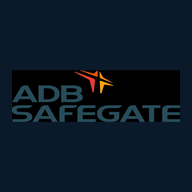
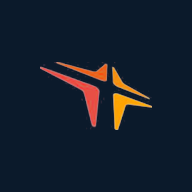
Use the real company wordmark throughout
The repo already carried the genuine logo scan (the JPEG the PWA icons
were cropped from) but the app rendered a hand-drawn SVG approximation.

- scripts/make-logo-assets.py un-mattes the scan from its black
  background, knocks the teal wordmark out to white for dark surfaces
  (the star keeps its brand colors), and isolates the star mark.
- Logo component now renders logo-dark.png (real letterforms) instead
  of the Arial Black stand-in; call sites widened for the 3.27:1
  aspect (login 260, boot/reset 220, sidebar 150).
- favicon and PWA icons regenerated: the star mark alone, centered on
  the app navy within the maskable safe zone, replacing the black-box
  wordmark crop that showed as a letterbox on home screens.
- logo-dark.png added to the build's static asset list.

Claude-Session: https://claude.ai/code/session_01MF24TRRu9XaPojDKhzv9xS

Changed region(s): [[0.0625, 0.3125, 0.9375, 0.6875]]

diff --git a/src/uiPrimitives.jsx b/src/uiPrimitives.jsx
@@ -3,14 +3,20 @@ import { GlyphIcon } from "./icons.jsx";
 
 const { useId, useRef, useEffect } = React;
 
-export const Logo = ({ size=120, w=true }) => (
-  <svg viewBox="0 0 280 210" width={size} height={size*210/280} xmlns="http://www.w3.org/2000/svg">
-    <g transform="translate(140, 8)" fill="#E8702A">
-      <path d="M0,0 L5,10 L5,28 L40,46 L40,52 L5,46 L5,64 L16,74 L16,78 L0,73 L-16,78 L-16,74 L-5,64 L-5,46 L-40,52 L-40,46 L-5,28 L-5,10 Z"/>
-    </g>
-    <text x="140" y="140" textAnchor="middle" fontFamily="'Arial Black',Impact,sans-serif" fontSize="42" fontWeight="900" fill={w?"#fff":"#1b4d62"} letterSpacing="3">ADB</text>
-    <text x="140" y="190" textAnchor="middle" fontFamily="'Arial Black',Impact,sans-serif" fontSize="42" fontWeight="900" fill={w?"#fff":"#1b4d62"} letterSpacing="3">SAFEGATE</text>
-  </svg>
+// The real company wordmark. logo-dark.png is derived from the source logo
+// scan at the repo root (see scripts/make-logo-assets.py): background removed
+// and the wordmark knocked out to white for dark surfaces; the star keeps its
+// brand colors. `size` is the rendered width; the file is 820x251. The old
+// `w` prop is accepted for compatibility but there is only a dark-surface
+// variant, since the app has no light surfaces.
+export const Logo = ({ size=120 }) => (
+  <img
+    src="logo-dark.png"
+    alt="ADB SAFEGATE"
+    width={size}
+    height={Math.round(size * 251 / 820)}
+    style={{ display:"block" }}
+  />
 );
 
 // fontSize is 16, not 13, on purpose. iOS Safari auto-zooms the viewport when

diff --git a/app.jsx b/app.jsx
@@ -1203,7 +1203,7 @@ function App() {
       minHeight:"100vh", display:"flex", flexDirection:"column", alignItems:"center",
       justifyContent:"center", background:theme.bg, gap:18
     }}>
-      <Logo size={150} w={true} />
+      <Logo size={220} />
       <p role="status" aria-live="polite" style={{ color:theme.ts, fontSize:13 }}>
         Loading your portal…
       </p>
@@ -1219,7 +1219,7 @@ function App() {
       minHeight:"100vh", display:"flex", flexDirection:"column", alignItems:"center",
       justifyContent:"center", background:theme.bg, padding:24, textAlign:"center"
     }}>
-      <Logo size={150} w={true} />
+      <Logo size={220} />
       <div role="alert" style={{
         maxWidth:440, marginTop:24, background:"rgba(239,68,68,0.08)",
         border:"1px solid rgba(239,68,68,0.28)", borderRadius:14, padding:"16px 18px",
@@ -1311,7 +1311,7 @@ function App() {
           justifyContent: sidebarOpen ? "flex-start" : "center"
         }}>
           {sidebarOpen
-            ? <Logo size={110} w={true} />
+            ? <Logo size={150} />
             : <div style={{
                 width:30, height:30, borderRadius:8, background:theme.ga,
                 display:"flex", alignItems:"center", justifyContent:"center",

diff --git a/src/LoginPage.jsx b/src/LoginPage.jsx
@@ -125,7 +125,7 @@ export function LoginPage({
       <div style={{ width:"100%", maxWidth:400, padding:20, position:"relative", zIndex:1 }}>
         <div style={{ textAlign:"center", marginBottom:32 }}>
           <div style={{ margin:"0 auto 16px", display:"flex", justifyContent:"center" }}>
-            <Logo size={180} w={true} />
+            <Logo size={260} />
           </div>
           <p style={{ color:theme.or, fontSize:12, fontWeight:700, letterSpacing:2 }}>ABU DHABI MAINTENANCE TEAM</p>
         </div>

diff --git a/src/components/ResetPassword.jsx b/src/components/ResetPassword.jsx
@@ -53,7 +53,7 @@ export function ResetPassword({ email, onSubmit, onCancel }) {
     }}>
       <div style={{ width:"100%", maxWidth:420, padding:20 }}>
         <div style={{ display:"flex", justifyContent:"center", marginBottom:24 }}>
-          <Logo size={150} w={true} />
+          <Logo size={220} />
         </div>
         <div style={{
           background:theme.cs, borderRadius:16, padding:28, border:`1px solid ${theme.bd}`

diff --git a/build.js b/build.js
@@ -20,6 +20,7 @@ const STATIC_ASSETS = [
   "icon-512.png",
   "apple-touch-icon.png",
   "favicon.png",
+  "logo-dark.png",
 ];
 
 // Demo mode ships the demo login accounts AND the seeded team roster in the

diff --git a/scripts/make-logo-assets.py b/scripts/make-logo-assets.py
@@ -1,0 +1,71 @@
+# Regenerates the logo/icon assets from the source wordmark scan at the repo
+# root (PHOTO-2026-04-27-21-41-51.jpg.jpeg, the company logo on a black
+# background). Run from the repo root:
+#
+#   python3 scripts/make-logo-assets.py
+#
+# Outputs:
+#   logo-dark.png        wordmark knocked out to white, star in brand colors,
+#                        transparent background (used by the Logo component)
+#   favicon.png          star mark alone, transparent, 64x64
+#   icon-192/512.png     star mark centered on the app navy; sized for the
+#                        maskable safe zone (manifest declares "any maskable")
+#   apple-touch-icon.png same, 180x180, opaque
+#
+# Requires: pillow, numpy.
+
+from PIL import Image
+import numpy as np
+
+SRC = "PHOTO-2026-04-27-21-41-51.jpg.jpeg"
+NAVY = (11, 26, 43, 255)  # theme.bg
+
+src = Image.open(SRC).convert("RGB")
+a = np.asarray(src).astype(int)
+r, g, b = a[..., 0], a[..., 1], a[..., 2]
+
+# The scan is the logo composited on black, so alpha ~= max(r,g,b);
+# un-premultiply to recover each pixel's true color.
+alpha = a.max(axis=2)
+scale = np.maximum(alpha, 1)
+ur = np.clip(r * 255 // scale, 0, 255)
+ug = np.clip(g * 255 // scale, 0, 255)
+ub = np.clip(b * 255 // scale, 0, 255)
+
+# Warm pixels are the star; everything else is the teal wordmark.
+warm = (alpha > 12) & (ur > ub + 10) & (ur > 100)
+
+def trim(im, th=8):
+    bbox = im.split()[3].point(lambda v: 255 if v > th else 0).getbbox()
+    return im.crop(bbox)
+
+# logo-dark: star keeps its colors, wordmark goes white, background drops out.
+rgba = np.zeros((*alpha.shape, 4), dtype=np.uint8)
+rgba[..., 0] = np.where(warm, ur, 255)
+rgba[..., 1] = np.where(warm, ug, 255)
+rgba[..., 2] = np.where(warm, ub, 255)
+rgba[..., 3] = np.where(alpha > 12, alpha, 0)
+trim(Image.fromarray(rgba)).save("logo-dark.png", optimize=True)
+
+# Star mark alone. The bbox comes from columns/rows with several strong warm
+# pixels, so stray JPEG chroma speckles elsewhere cannot inflate it.
+strong = warm & (alpha > 90)
+xs = np.where(strong.sum(axis=0) >= 3)[0]
+ys = np.where(strong.sum(axis=1) >= 3)[0]
+srgba = np.zeros((*alpha.shape, 4), dtype=np.uint8)
+srgba[..., 0], srgba[..., 1], srgba[..., 2] = ur, ug, ub
+srgba[..., 3] = np.where(warm, alpha, 0)
+star = Image.fromarray(srgba).crop((int(xs[0]), int(ys[0]), int(xs[-1]) + 1, int(ys[-1]) + 1))
+
+def square(im, canvas, content, bg=None):
+    im2 = im.copy()
+    im2.thumbnail((content, content), Image.LANCZOS)
+    base = Image.new("RGBA", (canvas, canvas), bg or (0, 0, 0, 0))
+    base.paste(im2, ((canvas - im2.width) // 2, (canvas - im2.height) // 2), im2)
+    return base
+
+square(star, 64, 52).save("favicon.png", optimize=True)
+square(star, 512, 300, NAVY).save("icon-512.png", optimize=True)
+square(star, 192, 112, NAVY).save("icon-192.png", optimize=True)
+square(star, 180, 108, NAVY).convert("RGB").save("apple-touch-icon.png", optimize=True)
+print("logo assets regenerated")
